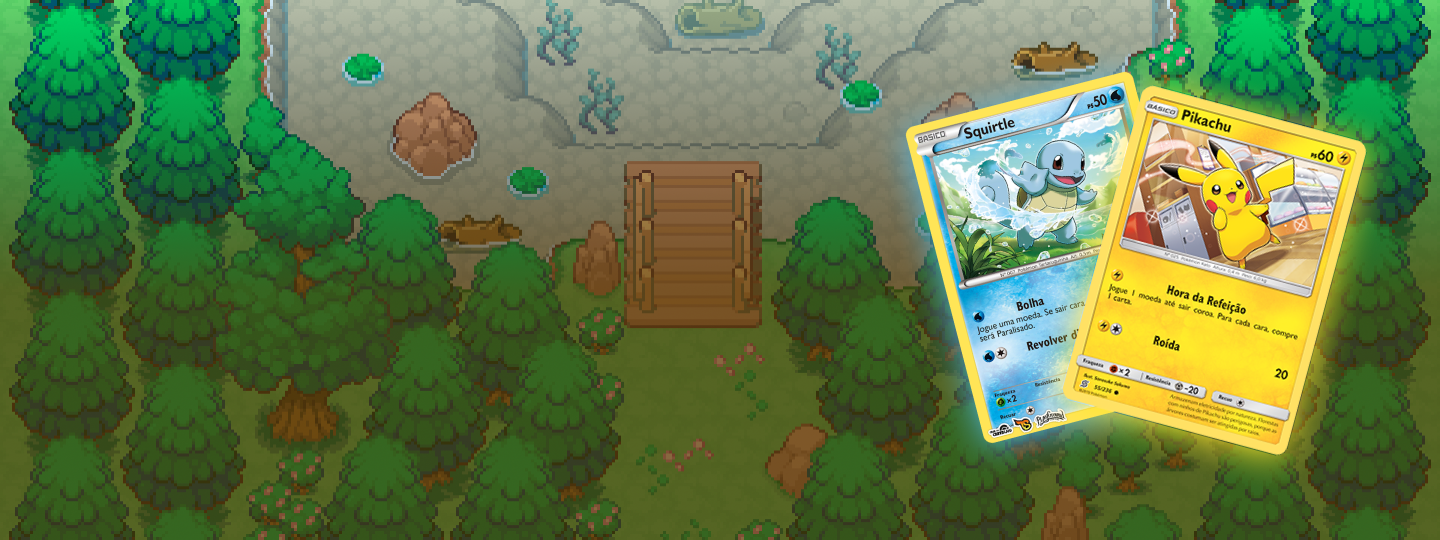
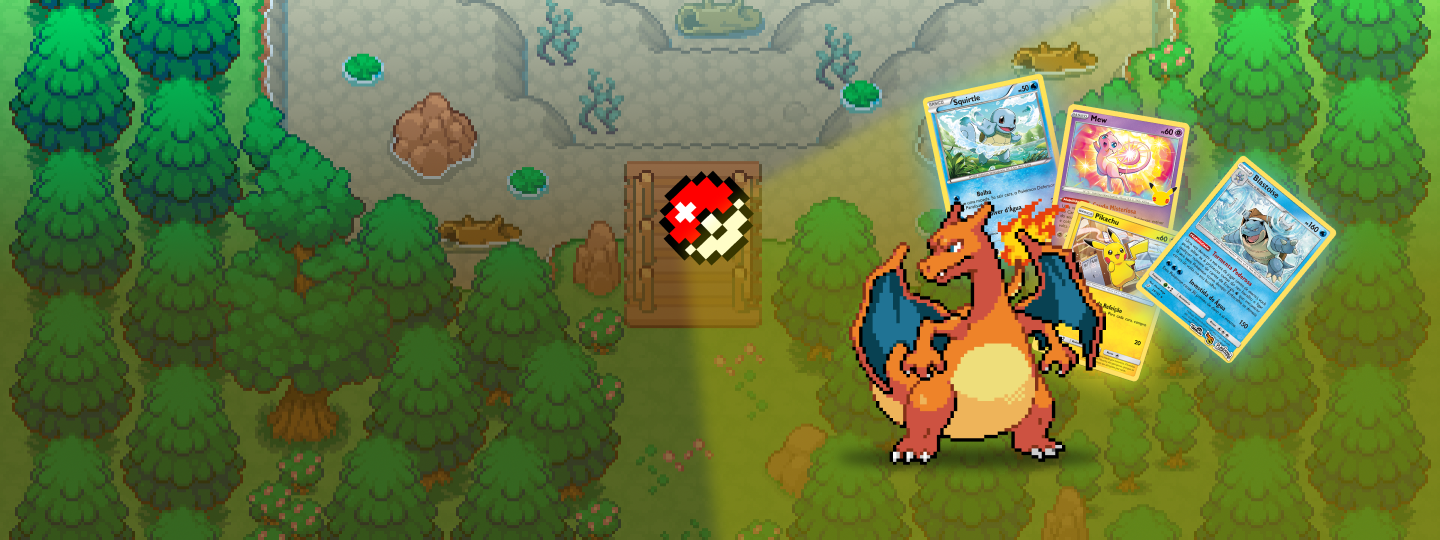
finish

diff --git a/index.html b/index.html
@@ -48,7 +48,7 @@
         <div class="cardsSecondBlock"><img src="./assets/ashcards.png"></div>
         <div class="textsSecondBlock">
             <div class="subTitleSecondBlock">POKEDEX</div>
-            <div class="titleSecondBlock">DESCRUBA TODO O UNIVERSO DE POKEMON</div>
+            <div class="titleSecondBlock">CONHEÇA TODOS OS ASPECTOS DO SEU POKEMON FAVORITO</div>
             <a onClick="document.getElementById('searchBlock').scrollIntoView();"><button
                     class="searchSecondBlock">PESQUISAR</button></a>
         </div>

diff --git a/css/contentindex.css b/css/contentindex.css
@@ -12,7 +12,7 @@ body {
     background-repeat: no-repeat;
     background-image: url(../assets/Banner.png);
     width: 100%;
-    height: 540px;
+    height: 600px;
     display: flex;
     justify-content: space-between;
 }
